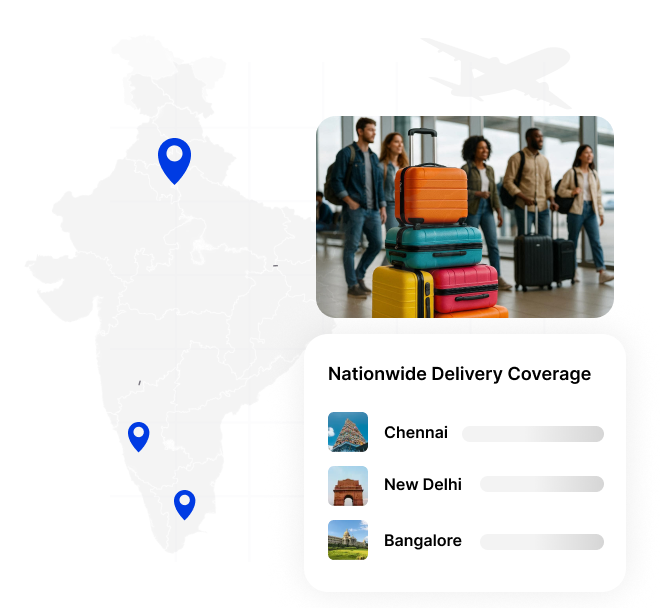
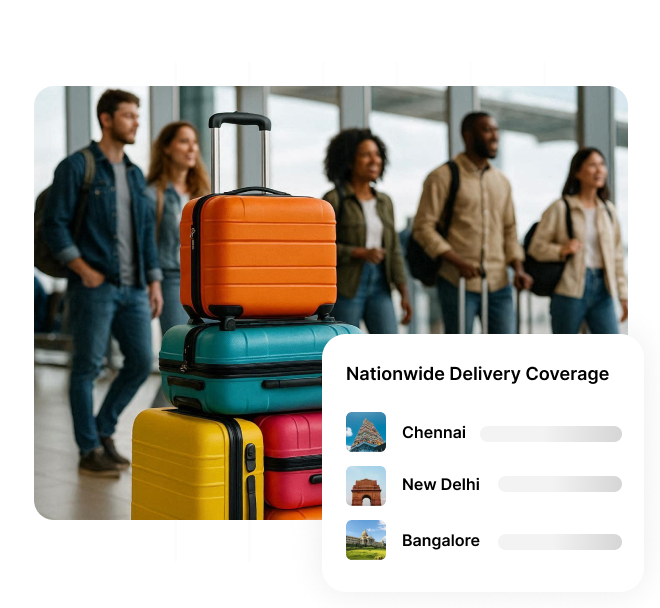
image changes

diff --git a/components/Slider.jsx b/components/Slider.jsx
@@ -18,12 +18,12 @@ import Support from "@/asset/why-choose/support.png";
 const data = [
    
   {
-    title: "Costs Less Than Carrying It Yourself",
+    title: "Costs Less Than Carrying It ",
     desc: "Excess baggage fees add up fast, so you can ship 20 kg or more for far less and pay once, without surprises.",
     img: Safe,
   },
   {
-    title: "Dedicated Support throughout",
+    title: "Dedicated Support Throughout",
     desc: "No chatbots. No waiting three days for an email reply. Get a dedicated contact who knows your shipment.",
     img: Support,
   },
@@ -33,24 +33,24 @@ const data = [
     img: Door,
   },
   {
-    title: "Avoid Extra Travel Expenses",
-    desc: "Skip bigger cabs, porters, and last-minute add-ons, with luggage delivered door to door.",
+    title: "Built for Last-Minute Plans Too",
+    desc: "Forgot to ship earlier? Express and Premium services get your luggage moving fast. Same day pickups available. Delivered in 3-5 days or less.",
     img: OnTime,
   },
   
   {
-    title: "Less Carrying Less Stress",
-    desc: "No dragging bags across stairs or platforms, because we pick up and deliver safely.",
+    title: "Live Updates Keep You in the Loop",
+    desc: "Real time tracking plus SMS and WhatsApp alerts at every step. You always know where your luggage is. No more guess games.",
     img: LiveTracking,
   },
   {
-    title: "Predictable Pricing",
-    desc: "Know the cost before you book, and pay exactly what you see.",
+    title: "Made for Group Travel and Corporate Moves",
+    desc: "Moving an entire team? Managing event luggage? Coordinating bags for a group trip? We handle multiple shipments to multiple destinations without the chaos.",
     img: Corporate,
   },
   {
-    title: "Safe From Start to Finish",
-    desc: "Your luggage is handled carefully, tracked end to end, and delivered without worry.",
+    title: "Nationwide Luggage Delivery Network",
+    desc: "Not just metros. We deliver across 25,000+ pincodes. From big cities to smaller towns, we deliver wherever your journey takes you.",
     img: Tier,
   },
   

diff --git a/page/About.jsx b/page/About.jsx
@@ -104,15 +104,15 @@ function Aboutus() {
       <section className="container mx-auto relative px-4 py-12  sm:px-6 lg:px-8">
         {/* Section Heading */}
         <div className="relative z-10">
-          <h2 className="text-center mb-10 md:mb-12 lg:mb-16">
-            Built for worry-free luggage delivery across cities
-          </h2>
-
+        
+<h3 className=" mb-4 text-center md:text-left">About Frisbi</h3>
           <div className="grid grid-cols-1 lg:grid-cols-2 gap-12 items-center">
             {/* Content */}
             <div className="flex flex-col justify-center">
-              <h3 className=" mb-4 text-center md:text-left">About Frisbi</h3>
-
+              
+  <h2 className="text-center mb-10 md:mb-12 lg:mb-16">
+            Built for worry-free luggage delivery across cities
+          </h2>
               <p className="text-second mb-8 text-center md:text-left max-w-xl leading-relaxed">
                 We started because dragging 20kg through airports didn’t make
                 sense. Neither did paying ₹2,000 in excess baggage fees or

diff --git a/components/ServiceCard.jsx b/components/ServiceCard.jsx
@@ -6,11 +6,11 @@ import { motion } from "framer-motion";
 import Link from "next/link";
 
 // --- Import Assets ---
-import Smartbox from "@/asset/home/premium.png";
-import Standard from "@/asset/home/standard.png";
-import Airport from "@/asset/home/express.png";
-import Corporate from "@/asset/home/corporate.png";
-import Packing from "@/asset/home/individual.png";
+import Smartbox from "@/asset/service/premium-banner-img.svg";
+import Standard from "@/asset/service/standard-banner-img.svg";
+import Airport from "@/asset/service/express.svg";
+import Corporate from "@/asset/service/corporate.svg";
+import Packing from "@/asset/service/individual.svg";
 
 // --- Services Data ---
 const servicesData = [
@@ -96,7 +96,7 @@ const ServiceCard = ({ service }) => {
       </div>
 
       {/* Image */}
-      <div className="absolute bottom-[-3%] inset-x-0 w-full h-[66%] z-0">
+      <div className="absolute bottom-[-0%] inset-x-0 w-full h-[55%] z-0">
         <Image
           src={service.imageSrc}
           alt={service.imageAlt}

diff --git a/components/MarqueeLogos.jsx b/components/MarqueeLogos.jsx
@@ -25,7 +25,7 @@ export default function MarqueeLogos() {
     <div className="container mx-auto relative px-4 py-12 md:py-24  sm:px-6 lg:px-8">
       <div className="text-center">
         <h2 className="text-center  mb-10 md:mb-12 lg:mb-16">
-          Companies that trust our services
+          Hundreds choose us and trust us till the last mile.
         </h2>
       </div>
 

diff --git a/page/corporate.jsx b/page/corporate.jsx
@@ -7,7 +7,6 @@ import MarqueeLogos from "@/components/MarqueeLogos";
 import bg from "@/asset/profiles/cta-banner.svg"; // <<< CHANGE TO YOUR BG IMAGE
 import Link from "next/link";
 import Testimonials from "@/components/Testimonials";
-
 import herobg from "@/asset/service/corporate.svg";
 
 import { TrustedBy } from "@/components/TrustedBy";
